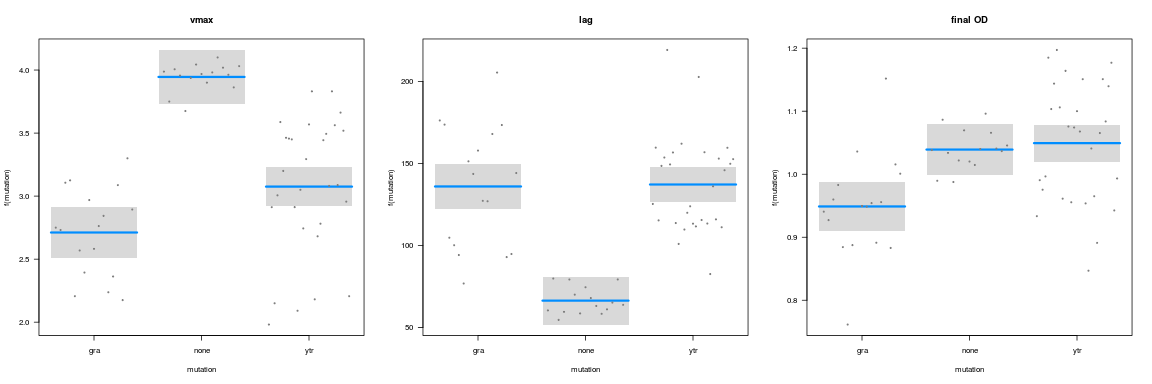
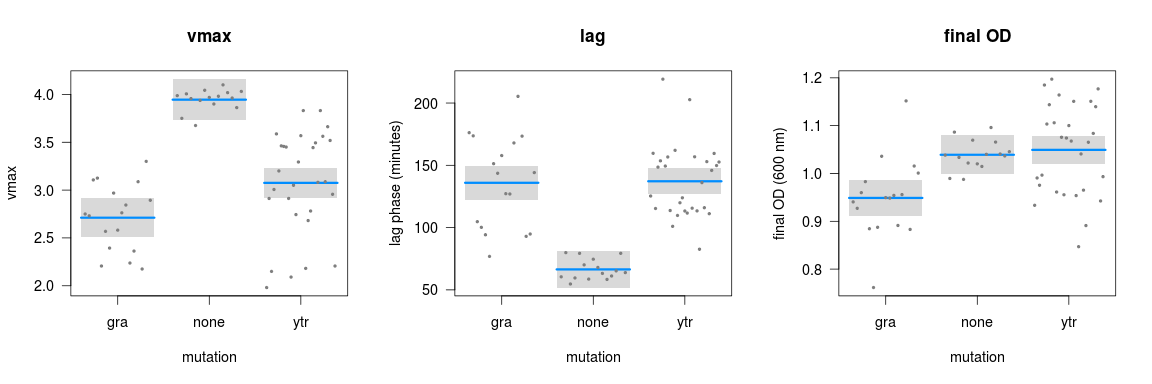
plots

diff --git a/javi.md b/javi.md
@@ -189,11 +189,14 @@ groMU <- rbind(foo, bar)
 ```
 
 ```r
-png("growth_by_mu.png", height = 480*0.8, width = 3*(480*0.8))
-par(mfrow = c(1,3))
-glm(vmax~mutation, data=groMU, family = gaussian) %>% visreg(main = "vmax")
-glm(lag~mutation, data=groMU, family = gaussian) %>% visreg(main = "lag")
-glm(final_OD~mutation, data=groMU, family = gaussian) %>% visreg(main = "final OD")
+png("plots/growth_by_mu.png", height = 480*0.8, width = 3*(480*0.8))
+par(mfrow = c(1,3), cex = 1.2)
+glm(vmax~mutation, data=groMU, family = gaussian) %>%
+  visreg(main = "vmax", ylab = "vmax")
+glm(lag~mutation, data=groMU, family = gaussian) %>%
+  visreg(main = "lag", ylab = "lag phase (minutes)")
+glm(final_OD~mutation, data=groMU, family = gaussian) %>%
+  visreg(main = "final OD", ylab = "final OD (600 nm)")
 dev.off()
 ```
 
